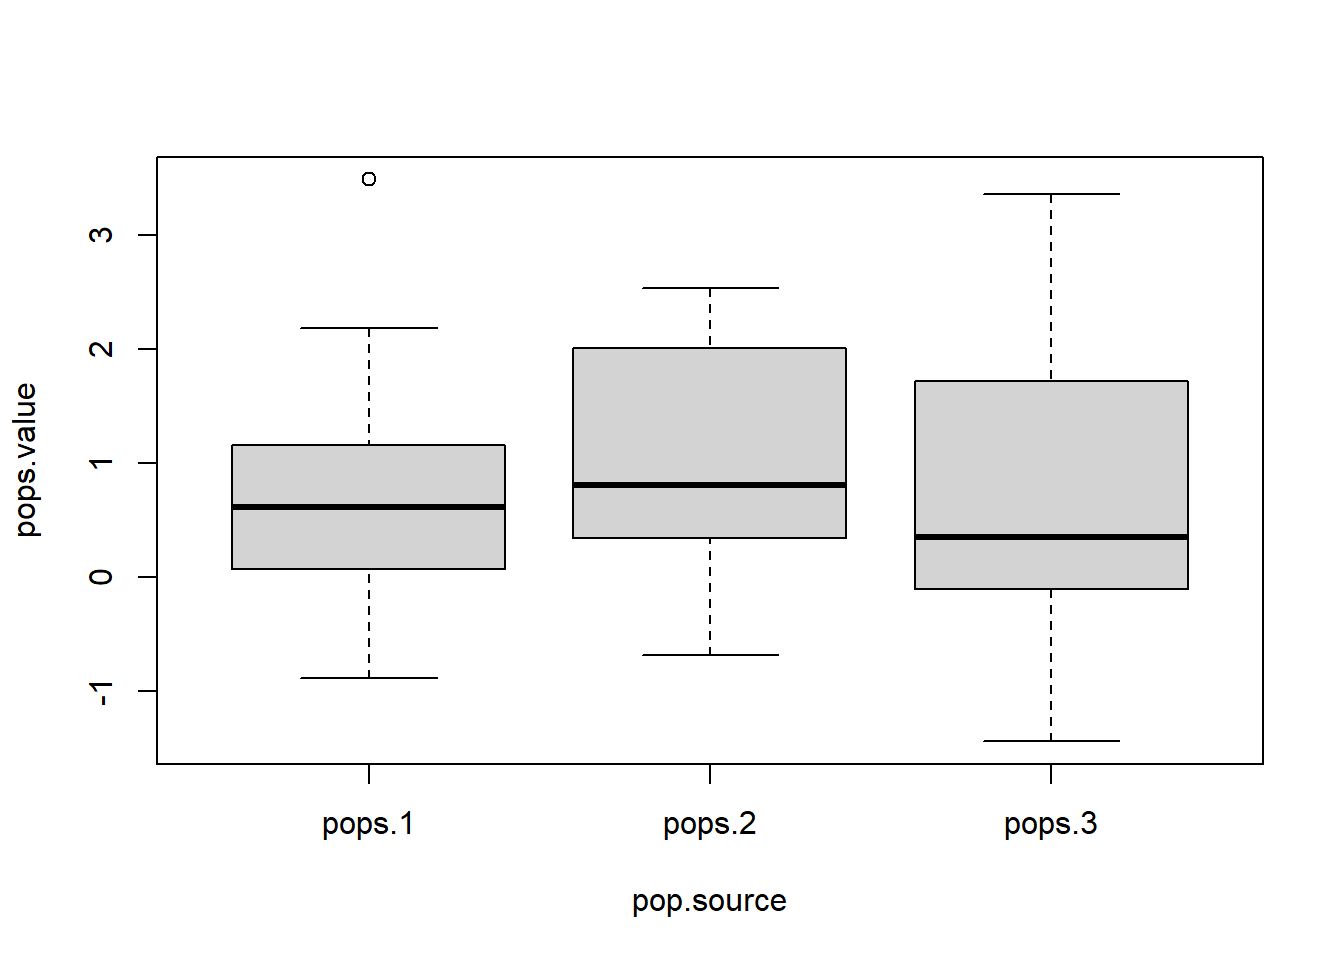
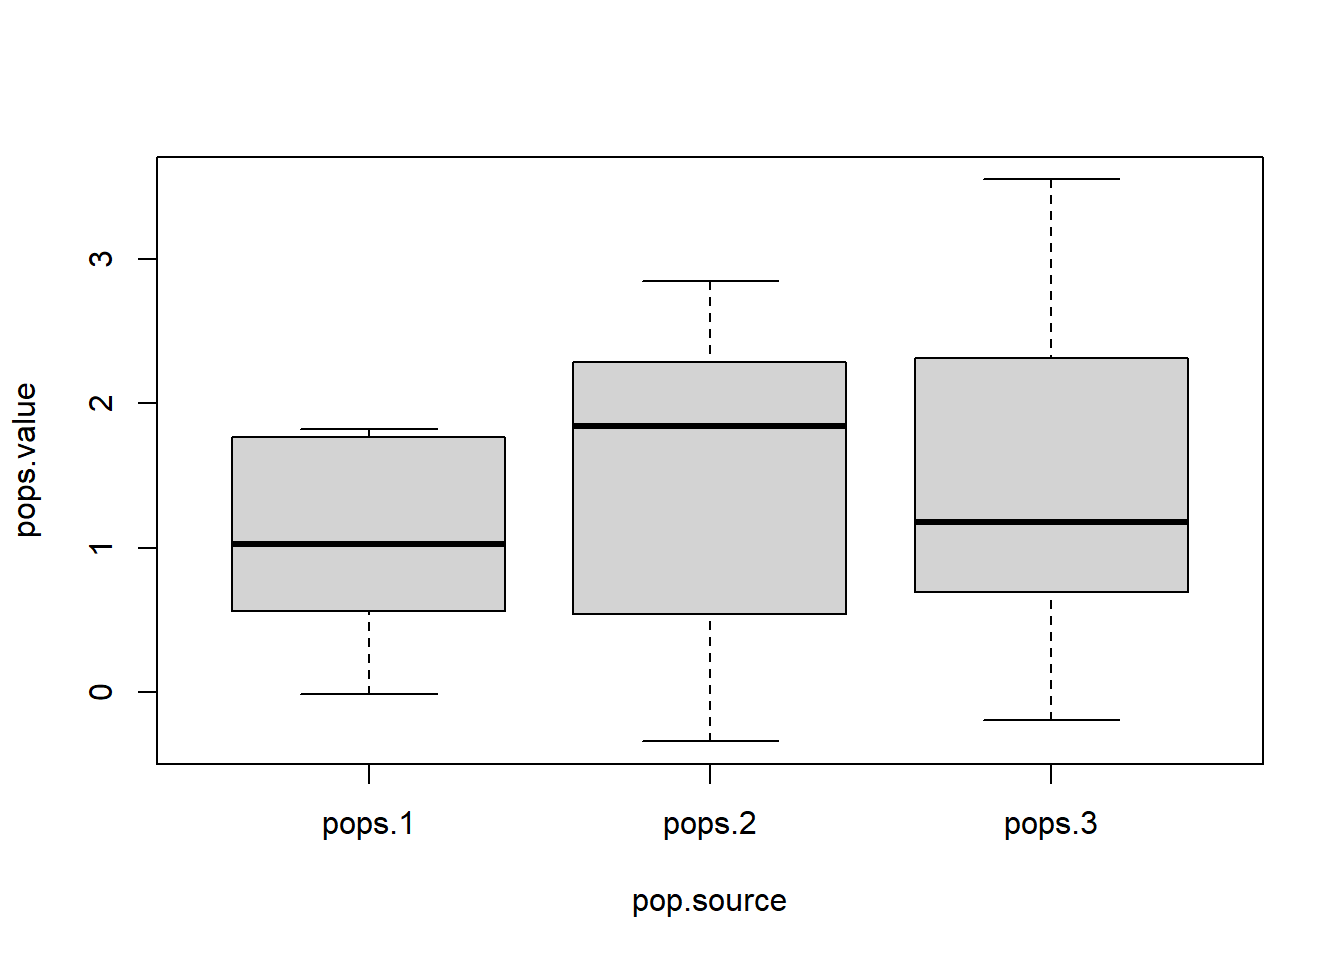
modul 9 psd 2024 rev

diff --git a/docs/semuahalaman/modulprak/2024/ganjil/psd/modul9.html b/docs/semuahalaman/modulprak/2024/ganjil/psd/modul9.html
@@ -6,7 +6,7 @@
 
 <meta name="viewport" content="width=device-width, initial-scale=1.0, user-scalable=yes">
 
-<meta name="dcterms.date" content="2026-01-11">
+<meta name="dcterms.date" content="2024-11-25">
 <meta name="description" content="Offline di Departemen Matematika">
 
 <title>(Pertemuan 09) ANOVA dan Chi-Squared – Lab Praktikum Departemen Matematika FMIPA UI</title>
@@ -225,7 +225,7 @@ window.Quarto = {
     <div>
     <div class="quarto-title-meta-heading">Published</div>
     <div class="quarto-title-meta-contents">
-      <p class="date">January 11, 2026</p>
+      <p class="date">November 25, 2024</p>
     </div>
   </div>
   
@@ -241,7 +241,7 @@ window.Quarto = {
 <h1>ANOVA</h1>
 <p>Analysis of Variance (ANOVA) digunakan untuk melakukan uji hipotesis terhadap lebih dari dua populasi. Beberapa asumsi dalam anova adalah:</p>
 <ul>
-<li>Sampel acak saling bebas/independen dan berukuran sama antar populasi</li>
+<li>Sampel acak saling bebas/independen</li>
 <li>Populasi berdistribusi normal</li>
 <li>Populasi memiliki variansi seragam</li>
 </ul>
@@ -258,7 +258,7 @@ window.Quarto = {
 <span id="cb1-6"><a href="#cb1-6" aria-hidden="true" tabindex="-1"></a>pops<span class="fl">.2</span> <span class="ot">&lt;-</span> <span class="fu">rnorm</span>(<span class="at">n=</span>n2, <span class="at">mean=</span><span class="fl">0.9</span>, <span class="at">sd=</span><span class="dv">1</span>)</span>
 <span id="cb1-7"><a href="#cb1-7" aria-hidden="true" tabindex="-1"></a>pops<span class="fl">.3</span> <span class="ot">&lt;-</span> <span class="fu">rnorm</span>(<span class="at">n=</span>n3, <span class="at">mean=</span><span class="fl">1.1</span>, <span class="at">sd=</span><span class="dv">1</span>)</span></code><button title="Copy to Clipboard" class="code-copy-button"><i class="bi"></i></button></pre></div>
 </div>
-<p>Selanjutnya, akan dibuat dataframe dari 30 sampel acak tersebut. Kolom pop.source menyatakan asal populasi (1,2,3) dan kolom pops.value menyatakan nilai sampel acak.</p>
+<p>Selanjutnya, akan dibuat dataframe dari sampel acak tersebut. Kolom pop.source menyatakan asal populasi (1,2,3) dan kolom pops.value menyatakan nilai sampel acak.</p>
 <div class="cell">
 <div class="sourceCode cell-code" id="cb2"><pre class="sourceCode r code-with-copy"><code class="sourceCode r"><span id="cb2-1"><a href="#cb2-1" aria-hidden="true" tabindex="-1"></a>pop.source <span class="ot">&lt;-</span> <span class="fu">c</span>(<span class="fu">replicate</span>(n1, <span class="st">"pops.1"</span>), </span>
 <span id="cb2-2"><a href="#cb2-2" aria-hidden="true" tabindex="-1"></a>                <span class="fu">replicate</span>(n2, <span class="st">"pops.2"</span>), </span>
@@ -274,9 +274,9 @@ window.Quarto = {
 <span id="cb3-2"><a href="#cb3-2" aria-hidden="true" tabindex="-1"></a>          <span class="cf">function</span>(x) <span class="fu">c</span>(<span class="at">mean =</span> <span class="fu">mean</span>(x),<span class="at">sd =</span> <span class="fu">sd</span>(x)))</span></code><button title="Copy to Clipboard" class="code-copy-button"><i class="bi"></i></button></pre></div>
 <div class="cell-output cell-output-stdout">
 <pre><code>  pop.source pops.value.mean pops.value.sd
-1     pops.1       0.8327999     1.2450658
-2     pops.2       0.9606372     1.0858013
-3     pops.3       0.7730302     1.4132571</code></pre>
+1     pops.1       1.0140308     0.7166648
+2     pops.2       1.4518575     1.1408228
+3     pops.3       1.3651208     1.1548174</code></pre>
 </div>
 </div>
 <div class="cell">
@@ -305,7 +305,7 @@ window.Quarto = {
     One-way analysis of means
 
 data:  pops.value and pop.source
-F = 0.058301, num df = 2, denom df = 27, p-value = 0.9435</code></pre>
+F = 0.51209, num df = 2, denom df = 27, p-value = 0.6049</code></pre>
 </div>
 </div>
 <p>Fungsi lain yang dapat digunakan adalah aov()</p>
@@ -314,13 +314,13 @@ F = 0.058301, num df = 2, denom df = 27, p-value = 0.9435</code></pre>
 <span id="cb8-2"><a href="#cb8-2" aria-hidden="true" tabindex="-1"></a><span class="fu">summary</span>(av)</span></code><button title="Copy to Clipboard" class="code-copy-button"><i class="bi"></i></button></pre></div>
 <div class="cell-output cell-output-stdout">
 <pre><code>            Df Sum Sq Mean Sq F value Pr(&gt;F)
-pop.source   2   0.18  0.0919   0.058  0.943
-Residuals   27  42.54  1.5755               </code></pre>
+pop.source   2  1.075  0.5375   0.512  0.605
+Residuals   27 28.338  1.0496               </code></pre>
 </div>
 </div>
 <p>Ingat lagi bahwa daerah kritis uji ANOVA adalah:</p>
 <ul>
-<li>$F_ &lt; F_{;(k-1);k(n-1)}$</li>
+<li><span class="math inline">\(F_\text{hitung}&lt; F_{\alpha;(k-1);k(n-1)}\)</span></li>
 <li><em>p-value</em> &lt; <span class="math inline">\(\alpha\)</span>.</li>
 </ul>
 <p>Dengan <span class="math inline">\(k\)</span> adalah banyak populasi dan <span class="math inline">\(n\)</span> adalah ukuran sampel acak dalam satu populasi.</p>
@@ -366,7 +366,7 @@ Residuals   27  42.54  1.5755               </code></pre>
     One-way analysis of means
 
 data:  pops.value and pop.source
-F = 0.91799, num df = 2, denom df = 31, p-value = 0.4099</code></pre>
+F = 0.86809, num df = 2, denom df = 31, p-value = 0.4297</code></pre>
 </div>
 </div>
 <div class="cell">
@@ -374,13 +374,13 @@ F = 0.91799, num df = 2, denom df = 31, p-value = 0.4099</code></pre>
 <span id="cb15-2"><a href="#cb15-2" aria-hidden="true" tabindex="-1"></a><span class="fu">summary</span>(av)</span></code><button title="Copy to Clipboard" class="code-copy-button"><i class="bi"></i></button></pre></div>
 <div class="cell-output cell-output-stdout">
 <pre><code>            Df Sum Sq Mean Sq F value Pr(&gt;F)
-pop.source   2   2.02   1.011   0.918   0.41
-Residuals   31  34.13   1.101               </code></pre>
+pop.source   2   2.56   1.278   0.868   0.43
+Residuals   31  45.64   1.472               </code></pre>
 </div>
 </div>
 <p>Ingat lagi bahwa daerah kritis uji ANOVA adalah:</p>
 <ul>
-<li>$F_ &lt; F_{;(k-1);(N-k)}$</li>
+<li><span class="math inline">\(F_\text{hitung}&lt; F_{\alpha;(k-1);k(n-1)}\)</span></li>
 <li><em>p-value</em> &lt; <span class="math inline">\(\alpha\)</span>.</li>
 </ul>
 <p>dengan <span class="math display">\[N = \sum_1^kn_i\]</span></p>
@@ -444,10 +444,10 @@ X-squared = 1.7, df = 5, p-value = 0.8889</code></pre>
 <span id="cb24-2"><a href="#cb24-2" aria-hidden="true" tabindex="-1"></a>dadu <span class="ot">&lt;-</span> <span class="fu">ceiling</span>(<span class="fu">runif</span>(<span class="at">n=</span>n_dadu, <span class="at">min =</span> <span class="dv">0</span>, <span class="at">max=</span><span class="dv">6</span>))</span>
 <span id="cb24-3"><a href="#cb24-3" aria-hidden="true" tabindex="-1"></a>dadu</span></code><button title="Copy to Clipboard" class="code-copy-button"><i class="bi"></i></button></pre></div>
 <div class="cell-output cell-output-stdout">
-<pre><code>  [1] 6 6 5 3 3 6 3 3 4 5 3 5 3 2 1 2 2 1 5 5 1 2 3 3 6 5 1 4 3 5 1 2 6 5 4 1 5
- [38] 1 5 5 2 2 4 2 4 4 2 1 3 2 5 4 6 6 5 1 6 5 1 4 3 3 4 5 3 6 6 3 6 5 4 6 4 4
- [75] 4 5 4 6 4 1 4 1 4 4 1 2 4 2 5 1 4 1 5 4 3 2 5 4 2 3 6 5 2 6 4 3 5 1 5 4 3
-[112] 1 4 1 4 6 4 1 2 2</code></pre>
+<pre><code>  [1] 5 6 5 1 5 1 6 1 2 5 2 1 4 5 6 6 4 3 5 1 2 3 1 6 6 4 6 1 1 4 4 1 1 5 1 2 1
+ [38] 4 3 3 1 6 4 4 1 2 5 5 2 1 6 2 5 4 2 1 3 2 4 4 4 1 4 6 4 1 2 6 2 5 5 1 1 4
+ [75] 6 3 1 1 1 5 5 4 2 4 2 1 6 2 5 6 3 1 3 6 3 4 2 5 1 1 5 5 1 1 3 5 4 1 2 4 2
+[112] 4 5 1 3 5 2 1 2 3</code></pre>
 </div>
 </div>
 <p>Dengan cara yang sama, kita dapat melakukan uji chi-squared</p>
@@ -464,7 +464,7 @@ incorrect</code></pre>
     Chi-squared test for given probabilities
 
 data:  dadu
-X-squared = 90.056, df = 119, p-value = 0.9778</code></pre>
+X-squared = 119, df = 119, p-value = 0.4828</code></pre>
 </div>
 </div>
 <p>Terdapat pesan “Warning: Chi-squared approximation may be incorrect”. Hal ini terjadi karena terdapat beberapa pengulangan nilai pada ruang sampel, di mana masing-masing nilai tersebut dianggap sebagai observasi independen yang memiliki probabilitas <span class="math inline">\(\frac{1}{20}\)</span>. Sedangkan, kita ingin menguji apakah peluang masing-masing mata dadu muncul bernilai <span class="math inline">\(\frac{1}{6}\)</span>.</p>
@@ -474,7 +474,7 @@ X-squared = 90.056, df = 119, p-value = 0.9778</code></pre>
 <div class="cell-output cell-output-stdout">
 <pre><code>dadu
  1  2  3  4  5  6 
-19 17 18 27 23 16 </code></pre>
+32 19 12 21 21 15 </code></pre>
 </div>
 </div>
 <p>Maka, kita dapat melakukan uji chi-squared tanpa menggunakan fungsi chisq.test()</p>
@@ -488,7 +488,7 @@ X-squared = 90.056, df = 119, p-value = 0.9778</code></pre>
 <div class="cell-output cell-output-stdout">
 <pre><code>         [,1] [,2] [,3] [,4] [,5] [,6]
 val.dadu "1"  "2"  "3"  "4"  "5"  "6" 
-obs.dadu "19" "17" "18" "27" "23" "16"
+obs.dadu "32" "19" "12" "21" "21" "15"
 ex.dadu  "20" "20" "20" "20" "20" "20"</code></pre>
 </div>
 </div>
@@ -503,7 +503,7 @@ ex.dadu  "20" "20" "20" "20" "20" "20"</code></pre>
 <div class="sourceCode cell-code" id="cb33"><pre class="sourceCode r code-with-copy"><code class="sourceCode r"><span id="cb33-1"><a href="#cb33-1" aria-hidden="true" tabindex="-1"></a>chi.hitung <span class="ot">&lt;-</span> <span class="fu">sum</span>((obs.dadu<span class="sc">-</span>ex.dadu)<span class="sc">**</span><span class="dv">2</span><span class="sc">/</span>ex.dadu)</span>
 <span id="cb33-2"><a href="#cb33-2" aria-hidden="true" tabindex="-1"></a>chi.hitung</span></code><button title="Copy to Clipboard" class="code-copy-button"><i class="bi"></i></button></pre></div>
 <div class="cell-output cell-output-stdout">
-<pre><code>[1] 4.4</code></pre>
+<pre><code>[1] 11.8</code></pre>
 </div>
 </div>
 <p>dan <span class="math inline">\(\chi^2_{\alpha, k-1}\)</span></p>
@@ -614,7 +614,7 @@ ex.dadu  "20" "20" "20" "20" "20" "20"</code></pre>
 <span id="cb50-2"><a href="#cb50-2" aria-hidden="true" tabindex="-1"></a><span class="fu">View</span>(df)</span></code><button title="Copy to Clipboard" class="code-copy-button"><i class="bi"></i></button></pre></div>
 </div>
 <p>Misal kita ingin menguji apakah ada hubungan antara variabel kategorik treatment dengan variabel kategorik improvement.</p>
-<p>Kita dapat membuat tabel kontingensi berukuran <span class="math inline">\(2x2\)</span> dari variabel kategorik tersebut.</p>
+<p>Kita dapat membuat tabel kontingensi berukuran 2x2 dari variabel kategorik tersebut.</p>
 <div class="cell">
 <div class="sourceCode cell-code" id="cb51"><pre class="sourceCode r code-with-copy"><code class="sourceCode r"><span id="cb51-1"><a href="#cb51-1" aria-hidden="true" tabindex="-1"></a>tabel <span class="ot">&lt;-</span> <span class="fu">table</span>(df<span class="sc">$</span>treatment, df<span class="sc">$</span>improvement)</span>
 <span id="cb51-2"><a href="#cb51-2" aria-hidden="true" tabindex="-1"></a>tabel</span></code><button title="Copy to Clipboard" class="code-copy-button"><i class="bi"></i></button></pre></div>
@@ -625,8 +625,16 @@ ex.dadu  "20" "20" "20" "20" "20" "20"</code></pre>
   treated           35           15</code></pre>
 </div>
 </div>
-<p>Ingat hipotesis yang akan diuji adalah: - <span class="math inline">\(H_0\)</span>: treatment dan improvement tidak saling mempengaruhi (independen) - <span class="math inline">\(H_1\)</span>: treatment dan improvement saling mempengaruhi (tidak independen)</p>
-<p>Dengan tingkat signfikasi <span class="math inline">\(\alpha=0.05\)</span>, daerah kritis diberikan oleh - <span class="math inline">\(\chi^2_\text{hitung} &gt; \chi^2_{\alpha, (r-1)(c-1)}\)</span> - <em>p-value</em> &lt; <span class="math inline">\(\alpha\)</span>.</p>
+<p>Ingat hipotesis yang akan diuji adalah:</p>
+<ul>
+<li><span class="math inline">\(H_0\)</span>: treatment dan improvement tidak saling mempengaruhi (independen)</li>
+<li><span class="math inline">\(H_1\)</span>: treatment dan improvement saling mempengaruhi (tidak independen)</li>
+</ul>
+<p>Dengan tingkat signfikasi <span class="math inline">\(\alpha=0.05\)</span>, daerah kritis diberikan oleh</p>
+<ul>
+<li><span class="math inline">\(\chi^2_\text{hitung} &gt; \chi^2_{\alpha, (r-1)(c-1)}\)</span></li>
+<li><em>p-value</em> &lt; <span class="math inline">\(\alpha\)</span>.</li>
+</ul>
 <p>Kita dapat melakukan uji chi-squared terhadap tabel kontingensi yang telah dibuat.</p>
 <div class="cell">
 <div class="sourceCode cell-code" id="cb53"><pre class="sourceCode r code-with-copy"><code class="sourceCode r"><span id="cb53-1"><a href="#cb53-1" aria-hidden="true" tabindex="-1"></a><span class="fu">chisq.test</span>(tabel)</span></code><button title="Copy to Clipboard" class="code-copy-button"><i class="bi"></i></button></pre></div>
@@ -645,7 +653,7 @@ X-squared = 4.6626, df = 1, p-value = 0.03083</code></pre>
 <pre><code>[1] 3.841459</code></pre>
 </div>
 </div>
-<p>Karena <span class="math inline">\(\chi^2_\text{hitung} = 4.6626 &gt; 3.841459 = \chi^2_{\alpha, k-1}\)</span>, dan p-value = 0.03083 &lt; $ 0.05=$, maka hasil uji berada di dalam daerah kritis. Dengan kata lain, terdapat bukti yang cukup untuk menolak <span class="math inline">\(H_0\)</span> di mana treatment dan improvement tidak saling mempengaruhi.</p>
+<p>Karena <span class="math inline">\(\chi^2_\text{hitung} = 4.6626 &gt; 3.841459 = \chi^2_{\alpha, k-1}\)</span>, dan p-value = 0.03083 &lt; 0.05= <span class="math inline">\(\alpha\)</span>, maka hasil uji berada di dalam daerah kritis. Dengan kata lain, terdapat bukti yang cukup untuk menolak <span class="math inline">\(H_0\)</span> di mana treatment dan improvement tidak saling mempengaruhi.</p>
 <p>Akan tetapi, kita tidak bisa menyimpulkan bagaimana kedua variabel tersebut saling mempengaruhi. Jadi, kita hanya bisa mengindikasi adanya asosiasi antarvariabel tanpa mengetahui apa/bagaimana asosiasinya (perlu dilakukan uji lain untuk menjelaskan lebih lanjut)</p>
 <section id="kasus-khusus" class="level3">
 <h3 class="anchored" data-anchor-id="kasus-khusus">Kasus Khusus</h3>
@@ -701,7 +709,11 @@ X-squared = 24.389, df = 10, p-value = 0.006632</code></pre>
 </div>
 </div>
 <p>Salah satu cara untuk melakukan uji independensi untuk kasus tersebut adalah dengan Fisher Exact Test.</p>
-<p>hipotesis yang akan diuji adalah: - <span class="math inline">\(H_0\)</span>: carb dan cyl tidak saling mempengaruhi (independen) - <span class="math inline">\(H_1\)</span>: carb dan cyl saling mempengaruhi (tidak independen)</p>
+<p>hipotesis yang akan diuji adalah:</p>
+<ul>
+<li><span class="math inline">\(H_0\)</span>: carb dan cyl tidak saling mempengaruhi (independen)</li>
+<li><span class="math inline">\(H_1\)</span>: carb dan cyl saling mempengaruhi (tidak independen)</li>
+</ul>
 <p>Dengan tingkat signfikasi <span class="math inline">\(\alpha=0.05\)</span>, daerah kritis diberikan oleh <em>p-value</em> &lt; <span class="math inline">\(\alpha\)</span>.</p>
 <div class="cell">
 <div class="sourceCode cell-code" id="cb66"><pre class="sourceCode r code-with-copy"><code class="sourceCode r"><span id="cb66-1"><a href="#cb66-1" aria-hidden="true" tabindex="-1"></a><span class="fu">fisher.test</span>(tabel2)</span></code><button title="Copy to Clipboard" class="code-copy-button"><i class="bi"></i></button></pre></div>
@@ -720,8 +732,8 @@ alternative hypothesis: two.sided</code></pre>
 </section>
 <section id="uji-hipotesis-di-excel" class="level1">
 <h1>Uji Hipotesis di Excel</h1>
-<p>Silakan unduh worksheet berikut untuk melakukan uji hipotesis di Excel yang telah kita bahas.</p>
-<p><a href="./worksheet_pertemuan9.xlsx">Worksheet Pertemuan 9 (Revisi)</a></p>
+<p>Silakan unduh worksheet berikut untuk melakukan uji hipotesis yang telah kita bahas di Microsoft Excel .</p>
+<p><a href="./worksheet_pertemuan9.xlsx">Worksheet Pertemuan 9</a></p>
 
 
 </section>

diff --git a/docs/semuahalaman/modulprak/2024/ganjil/psd/psd2024.html b/docs/semuahalaman/modulprak/2024/ganjil/psd/psd2024.html
@@ -326,7 +326,7 @@ Nov 4, 2024
 </div>
 </a>
 </div>
-<div class="g-col-1" data-index="7" data-listing-date-sort="1768064400000" data-listing-file-modified-sort="1732379771368" data-listing-date-modified-sort="NaN" data-listing-reading-time-sort="8" data-listing-word-count-sort="1524">
+<div class="g-col-1" data-index="7" data-listing-date-sort="1732467600000" data-listing-file-modified-sort="1732415884043" data-listing-date-modified-sort="NaN" data-listing-reading-time-sort="8" data-listing-word-count-sort="1523">
 <a href="../../../../../semuahalaman/modulprak/2024/ganjil/psd/modul9.html" class="quarto-grid-link">
 <div class="quarto-grid-item card h-100 card-left">
 <p class="card-img-top"><img src="modul9_files\figure-html\unnamed-chunk-4-1.png" style="height: 150px;"  class="thumbnail-image card-img"/></p>
@@ -336,7 +336,7 @@ Nov 4, 2024
 </h5>
 <div class="card-attribution card-text-small end">
 <div class="listing-date">
-Jan 11, 2026
+Nov 25, 2024
 </div>
 </div>
 </div>
